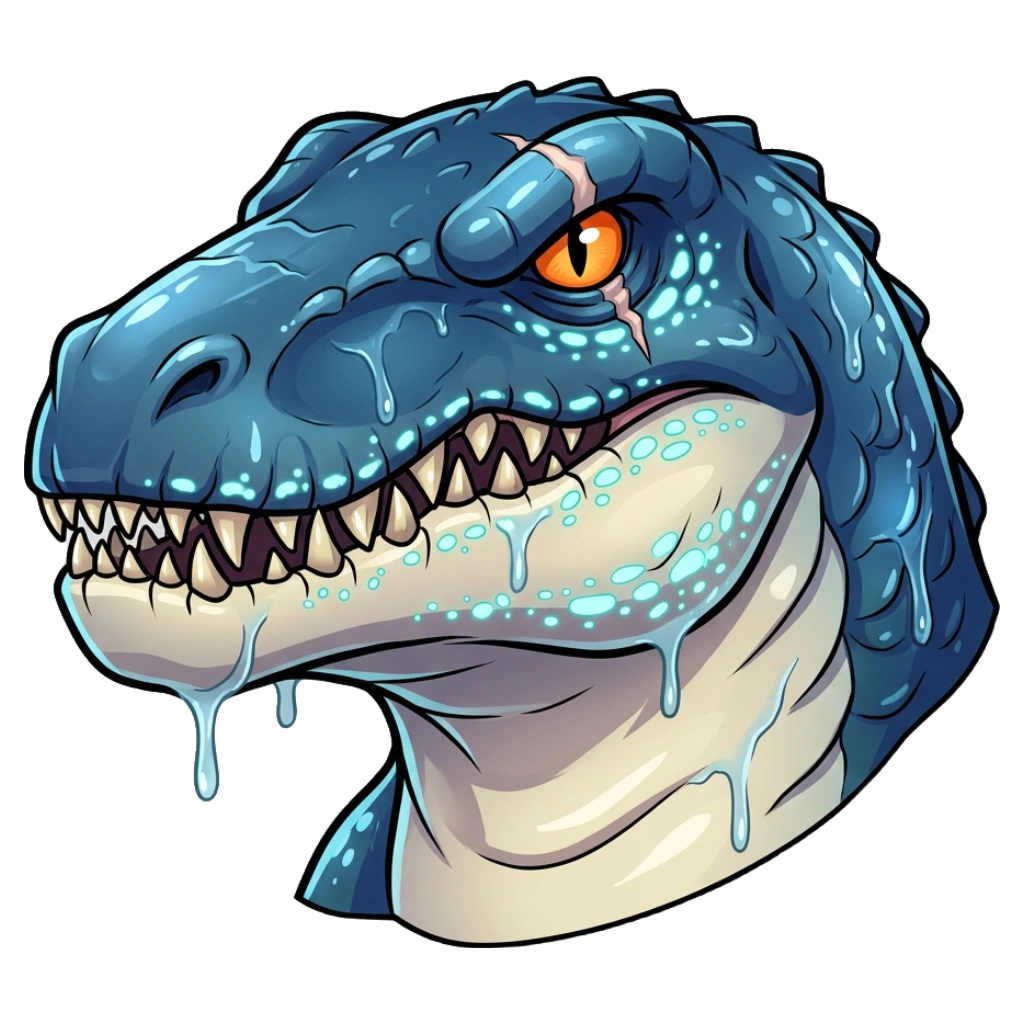
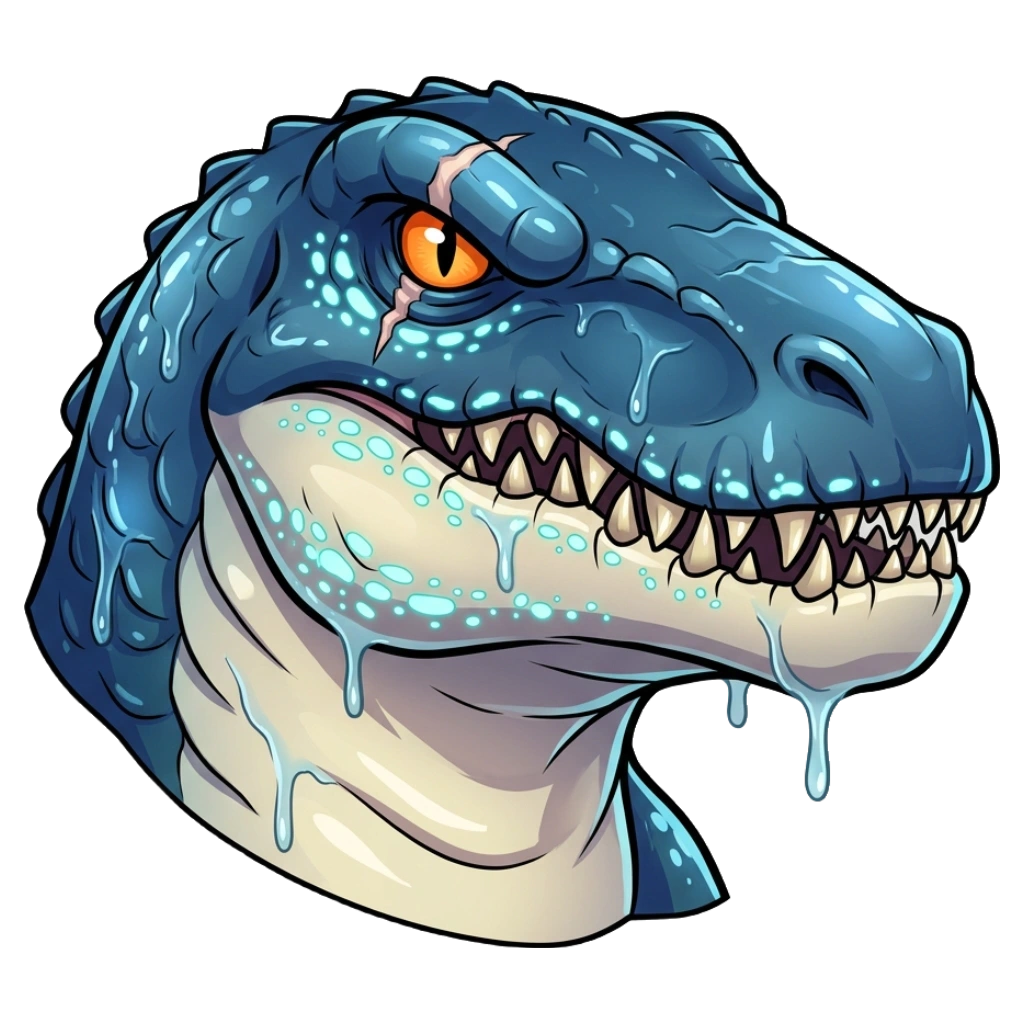
fix: mirror the Abyssal Trench boss portrait to face right
The generated source faced left because its prompt stated no facing direction
and had no reference image to inherit the house convention from. Flipped the
committed file horizontally to match every other boss portrait, and restored
the "all six face right" documentation to match, with a note on the prompt row
so a future regeneration doesn't reintroduce the same drift.

diff --git a/docs/assets/prompts.md b/docs/assets/prompts.md
@@ -744,7 +744,14 @@ margin all six committed portraits measure at.
 
 **boss-abyssal_trench — The Trench Sovereign (Mosasaurus):** generated as a
 standalone prompt (not an image-edit of the coastal reference), background
-removed, fitted to a 24px margin.
+removed, fitted to a 24px margin. The generated source faced left — this
+prompt states no facing direction, and with no reference image attached
+there was nothing to inherit the house right-facing convention from — so the
+committed file is that same generation horizontally flipped in post to face
+right, matching every other boss portrait. A future regeneration from this
+prompt is not guaranteed to land right-facing either; check orientation
+against the other bosses before shipping, and either flip in post again or
+add an explicit "facing right" clause to the prompt.
 
 > A fierce cartoon Mosasaurus boss portrait, head and shoulders in three-quarter
 > view, massive blunt reptilian skull with a jagged toothy snarl, deep-blue scales
@@ -839,15 +846,11 @@ extend beyond the dinosaur silhouette — off-silhouette glow survives backgroun
 removal as floating islands or a light halo on transparency. Emissive detail is
 allowed only ON surfaces. Every prompt carries this rule verbatim.
 
-**Facing right:** five of the six committed boss portraits face right, snout
-pointing right — the shared convention set by the coastal reference — and one
-of those five (Frozen Cliffs) came back mirrored on generation and had to be
-flipped in post to match it (see Battle bosses). The sixth, Abyssal Trench,
-ships facing left: it was generated as a standalone prompt with no facing
-direction stated and no reference image attached, so it never inherited the
-convention and was never corrected. The prompt frame below states the
-direction up front for exactly this reason — still check every generation
-against the reference before shipping it.
+**Facing right:** all six committed boss portraits face right, snout pointing
+right, and two boss generations came back mirrored and had to be flipped in
+post (Frozen Cliffs and Abyssal Trench — see Battle bosses). The prompt frame
+below states the direction up front — still check every generation against
+the reference before shipping it.
 
 **Workflow (reference chain):** all eight are generated as image-edits of the
 committed `assets/images/battles/boss-coastal_dig-portrait.webp` (Nano Banana
